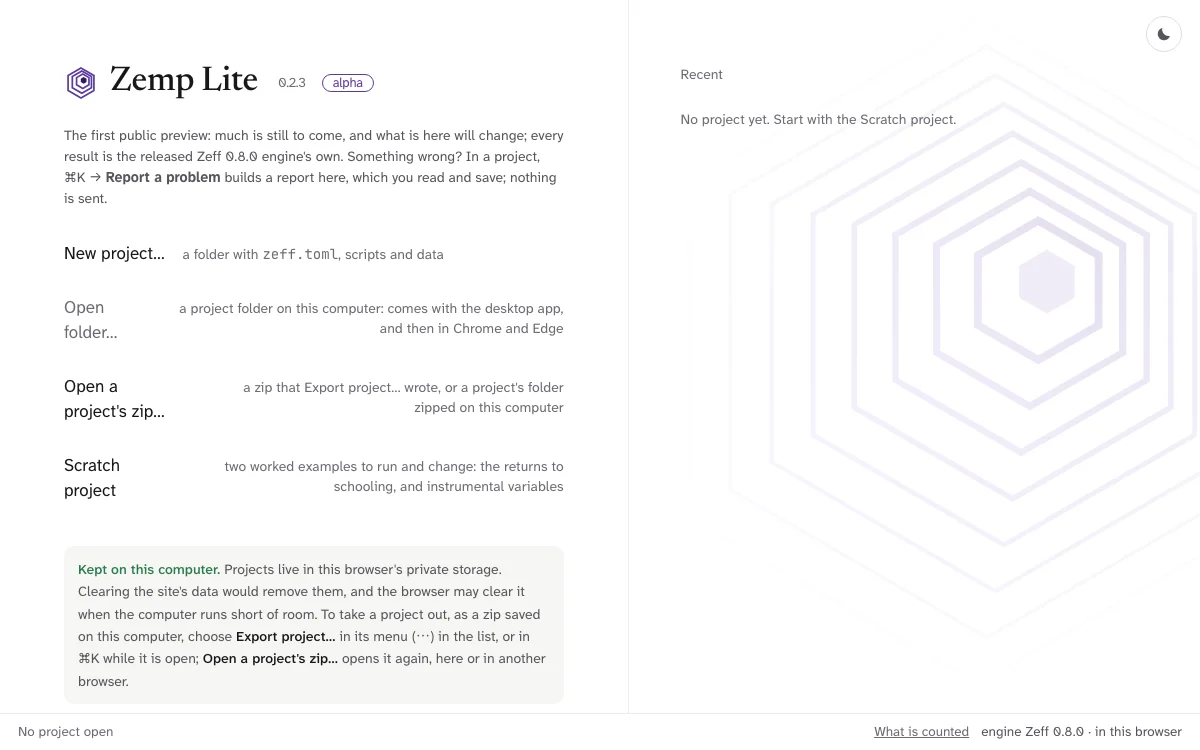
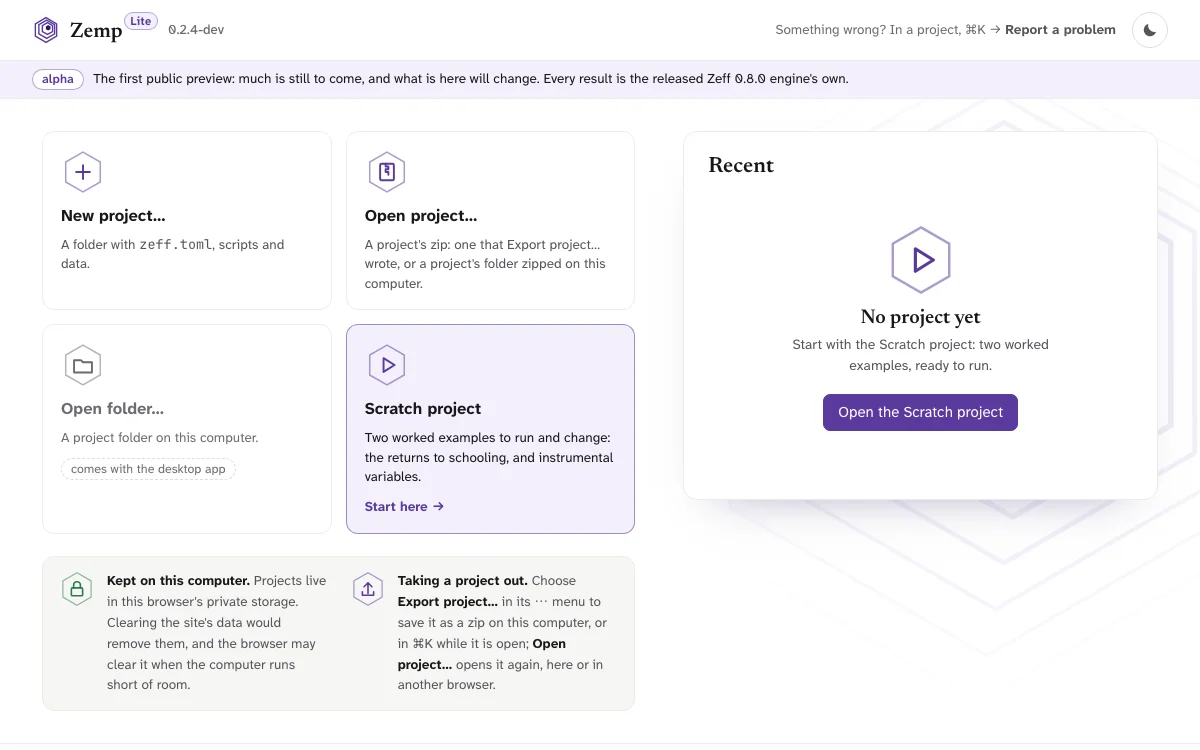
Bring the pages of Using Zemp Lite and their pictures to this release
Five places reworded where the app changed, and all thirteen pictures made again. The check of the landing page's links out of the site asks GitHub's interface for programs, since its pages answer 429 to a machine that asks often.

diff --git a/tests/host/host.spec.ts b/tests/host/host.spec.ts
@@ -3,7 +3,7 @@
 // example; and the first start, from a browser that has never seen the page to the engine
 // ready, is measured against the Zemp Specification's 2 seconds (section 14).
 import { readFileSync } from "node:fs";
-import { expect, test } from "@playwright/test";
+import { expect, test, type Page } from "@playwright/test";
 import { readZip } from "../../src/project/zip";
 
 const READY = "engine Zeff 0.8.0 ready";
@@ -46,6 +46,38 @@ test("the root is the front page, which opens the app; and an address kept from 
   await expect(page).toHaveURL(/\/app\/#?$/);
 });
 
+const SOURCE = "https://github.com/zoostat/zemp-lite";
+
+/**
+ * Whether an address the landing page links to out of the site is there. Every such link is
+ * to the repository: its front page, a file of its main branch, or its list of releases.
+ * GitHub's pages answer 429 to a machine that asks often, which says nothing of the page; so
+ * the question is put to GitHub's interface for programs, with this run's token where there
+ * is one (after a deployment) and without where there is none (from a desk).
+ */
+async function exists(page: Page, address: string): Promise<boolean> {
+  if (!address.startsWith(SOURCE)) return false;
+  const rest = address.slice(SOURCE.length);
+  const file = /^\/blob\/main\/(.+)$/.exec(rest);
+  const asked =
+    rest === ""
+      ? ""
+      : rest === "/releases"
+        ? "/releases?per_page=1"
+        : file !== null
+          ? `/contents/${file[1]}?ref=main`
+          : null;
+  if (asked === null) return false;
+  const token = process.env["GITHUB_TOKEN"];
+  const answer = await page.request.get(`https://api.github.com/repos/zoostat/zemp-lite${asked}`, {
+    headers: {
+      accept: "application/vnd.github+json",
+      ...(token === undefined || token === "" ? {} : { authorization: `Bearer ${token}` }),
+    },
+  });
+  return answer.status() === 200;
+}
+
 test("the root is the landing page, with the engine's own counts; its links out of the site answer, and a link into Help opens its page", async ({
   page,
 }) => {
@@ -62,8 +94,7 @@ test("the root is the landing page, with the engine's own counts; its links out 
     .evaluateAll((all) => [...new Set(all.map((one) => one.getAttribute("href") as string))]);
   expect(outside.length).toBeGreaterThan(2);
   for (const address of outside) {
-    const answer = await page.request.get(address);
-    expect(answer.status(), address).toBe(200);
+    expect(await exists(page, address), address).toBe(true);
   }
   await page.getByRole("link", { name: "Finding help", exact: true }).click();
   const open = page.getByRole("button", { name: "Open Zemp Lite" });

diff --git a/tests/browser/help-using.spec.ts b/tests/browser/help-using.spec.ts
@@ -143,6 +143,9 @@ test("links go from one page to another and to the engine's pages, each into the
     "↑",
     "↵",
     "Esc",
+    // From 0.2.4 the page says what Return does with no match marked, and names the key twice.
+    "↵",
+    "↵",
     "F1",
     // The section on a name with two functions names the key once more.
     "F1",

diff --git a/docs/decisions.md b/docs/decisions.md
@@ -2360,3 +2360,31 @@ A match is entered once, by the best rule that finds it, with why it matched whe
 **Tested.** Unit: every source of a screen read for the fonts it names, in style sheets and in the editor's theme, more than forty rules, none naming a font not shipped (`src/theme/fonts.node.test.ts`; with the old rule put back it fails and names it); the suggestion read from the engine's sentence, and none where it suggests nothing (`src/help/suggested.test.ts`). Browser (`tests/browser/help-search.spec.ts`): `lm`, `ttest` and `regg`, each with Return, open `reg`, `t_test` and `reg`; `histogram` opens its chooser and `reg` its own page; a word nothing matches shows the engine's sentence; on the page of a name the engine has not, the suggested name is a button with its title, the name not found is none, and the button, by the mouse and by the keyboard, opens the suggested name's page.
 
 **Reason.** Faults found after 0.2.3 (`docs/progress.md`, 24 November 2026), and the owner's answer.
+
+## 24 November 2026: The pages of Using Zemp Lite brought to this release (release 0.2.4, step 14)
+
+**The standing rule** (#211, item 12): at every release the pages Zemp keeps itself agree with the app that release ships; every control they name is on the screen under that name, and every picture is made again from the running app.
+
+**What changed in the words**, each put to the owner to read before the release (his answer to question 4):
+
+1. **Finding help**, under _Search_, one sentence added: "With no match marked, ↵ opens the page of what you typed where that is a name of Zeff's, and otherwise the first match of the list: `lm` and ↵ opens `reg`." (Step 13.)
+2. **Finding help**, under _Browse_: "a panel for each kind of page" is "a card for each kind of page" (step 12); "The **Topics** pane at the left lists the packages and the errors and warnings; beside a page it lists the pages around it" is "The **Topics** pane at the left has a section for each of the three; press a section's name to unfold it. Beside a page the pane lists the pages around it" (step 11: the sections are closed when Help is first opened); and "**On this page**, at the right, lists the sections of the page you are reading" is "At the right of a page its sections are listed, under the words On this page; press one to go to it" (step 10).
+3. **Finding help**, under _From the script_, one sentence added before the one on F1: "Rest the pointer on a function's name in the script, and its usage is shown: the function's name with its arguments." (Step 9.)
+4. **Projects, scripts and files** and **Exporting and opening a project**: **Open a project's zip…** is **Open project…** (step 7).
+5. **Where the work is kept**: the words of its picture, for a reader who cannot see it, now describe the redrawn screen of projects: its four cards, the note under them, and at the right "No project yet" with the button that opens the Scratch project.
+
+**The pictures.** All thirteen made again from the app by the pictures' script (`npm run pictures`), in the light theme; nine of the files changed: every one that shows the screen of projects, the Help place, the name, or the version. The script needed no change but the address of the app, made at step 2.
+
+**Tested.** The tests of the pages as at 0.2.3, green: every control a page names is on the screen under that name; every function, package and code a page names is the engine's; what a page says the search finds, it finds; every picture is there with its words. One test that lists the keys **Finding help** names is brought to the page's new sentence.
+
+**Reason.** The owner's standing rule, and his answer to question 4 of this release's plan.
+
+## 24 November 2026: The check of the landing page's links out of the site asks GitHub's interface, not its pages (found on GitHub after step 8)
+
+**What was seen.** Two deployments (of steps 8 and 9, commits a5c139b and cc1a83f) were reported failed, though each was deployed and every check of the site itself passed there, in both browsers. The one test that failed was step 8's own: it asked for each address the landing page links to out of the site (the repository's front page, its licence, its notices, its list of releases), and GitHub's pages answered 429, "too many requests", to GitHub's own machines, which ask often. A 429 says nothing of whether a page is there.
+
+**Choice.** The question is put to GitHub's interface for programs instead: the repository, a file of its main branch, its releases. After a deployment it is asked with that run's own token, which the deployment job now gives the checks; from a desk it is asked without one. A link that is none of the three kinds the landing page uses fails the check outright, so a link added later has to be one the check knows how to ask about.
+
+**Tested.** From this Mac at `https://lite.zeff-lang.dev`, in both browsers: the check passes, each of the five addresses answered 200 by the interface.
+
+**Reason.** A check that fails for the asker's own frequency hides the failures that matter; #220, item 1, asks that every link goes to an address that exists, which is what is now asked.

diff --git a/docs/progress.md b/docs/progress.md
@@ -66,4 +66,8 @@ Decided by the owner (#211, stage 1), planned (`docs/releases/0.2.3.md`), built 
 
 **Done, step 13 `[function]`.** The font of a list page's words is the app's own, and a test reads every rule of the app for the fonts it names; in Help's search, Return opens the first match where what was typed is not a name (`lm` opens `reg`), and a name the engine suggests is a link to its page. Green here: the whole routine in both browsers (422 unit tests, 615 browser tests).
 
-**Next.** Step 14 `[function]`: the pages of Using Zemp Lite brought to this release, and every picture made again. At step 15: a dated correction in the notes of 0.1 to 0.2.3, which call 2.9 MB the size "as it travels". **Still the owner's from before:** the reader test, on this alpha, for Zeff 0.9.0; the checks by hand; the trademarks (#37) before the address is announced; the order of the parts for #223. Also his, if he wishes: to read again the paragraphs of **Finding help** and **Commands with ⌘K** changed after his reading at 0.2.3. **Later:** Zemp 0.3 opens on "Start release 0.3" after Zeff 0.9.0 is released; its plan holds stage 1 of Paper (#172), its first step the spike of the Typst module `[engine]` (`docs/decisions.md`, 23 November 2026).
+**Done, step 14 `[function]`.** The pages of Using Zemp Lite agree with the app again: five places reworded (the search's Return, Home's cards, the Topics pane's sections, On this page, the hover; **Open project…**; the words of one picture), listed in `docs/decisions.md`; all thirteen pictures made again. Green here: the whole routine in both browsers (422 unit tests, 615 browser tests). **Found on GitHub:** two deployments reported failed though deployed and sound: GitHub's pages answered 429 to the check of the landing page's links; the check now asks GitHub's interface for programs, and passes at the address from this Mac.
+
+**For the owner, before "Release 0.2.4":** to read the changed paragraphs of **Finding help** (three places), and the renamed **Open project…** in two pages.
+
+**Next.** Step 15 `[function]`: the whole, the measures and the notes. At step 15: a dated correction in the notes of 0.1 to 0.2.3, which call 2.9 MB the size "as it travels". **Still the owner's from before:** the reader test, on this alpha, for Zeff 0.9.0; the checks by hand; the trademarks (#37) before the address is announced; the order of the parts for #223. Also his, if he wishes: to read again the paragraphs of **Finding help** and **Commands with ⌘K** changed after his reading at 0.2.3. **Later:** Zemp 0.3 opens on "Start release 0.3" after Zeff 0.9.0 is released; its plan holds stage 1 of Paper (#172), its first step the spike of the Typst module `[engine]` (`docs/decisions.md`, 23 November 2026).

diff --git a/src/using/pages/finding-help.md b/src/using/pages/finding-help.md
@@ -13,17 +13,17 @@ Type in the field at the top of Help; <kbd>/</kbd> puts the cursor there. From t
 - a name from R or Stata: `lm` and `reghdfe` both find `reg`;
 - the code of an error or a warning: `W0201`.
 
-<kbd>↓</kbd> and <kbd>↑</kbd> move through the list, <kbd>↵</kbd> opens the match marked, and <kbd>Esc</kbd> closes the list.
+<kbd>↓</kbd> and <kbd>↑</kbd> move through the list, <kbd>↵</kbd> opens the match marked, and <kbd>Esc</kbd> closes the list. With no match marked, <kbd>↵</kbd> opens the page of what you typed where that is a name of Zeff's, and otherwise the first match of the list: `lm` and <kbd>↵</kbd> opens `reg`.
 
 ![The Help place with lm typed in its search field: under the field a list of two functions, reg and anova, each saying it matched R's lm().](search-in-help)
 
 ## Browse
 
-**Home** is where Help starts: what Zeff and Zemp Lite are, and a panel for each kind of page, the packages, the errors and warnings, and these pages on the app. A package's page lists its functions, each with its one line. The **Topics** pane at the left lists the packages and the errors and warnings; beside a page it lists the pages around it. At the right of a page its sections are listed, under the words On this page; press one to go to it.
+**Home** is where Help starts: what Zeff and Zemp Lite are, and a card for each kind of page, the packages, the errors and warnings, and these pages on the app. A package's page lists its functions, each with its one line. The **Topics** pane at the left has a section for each of the three; press a section's name to unfold it. Beside a page the pane lists the pages around it. At the right of a page its sections are listed, under the words On this page; press one to go to it.
 
 ## From the script
 
-Put the cursor on a function's name in the script and press <kbd>F1</kbd>: Help opens at its page. When a run gives a warning or an error, press **Explain** beside it for the page of its code.
+Rest the pointer on a function's name in the script, and its usage is shown: the function's name with its arguments. Put the cursor on the name and press <kbd>F1</kbd>: Help opens at its page. When a run gives a warning or an error, press **Explain** beside it for the page of its code.
 
 ## A name with two functions
 

diff --git a/docs/releases/0.2.4.md b/docs/releases/0.2.4.md
@@ -68,7 +68,7 @@ Each has a recommendation; "go, as recommended" takes them all.
 
 ### F. The words and the pictures
 
-- [ ] **14. [function] The pages of Using Zemp Lite brought to this release** (#211, item 12; finding 8; question 4). Every sentence that names a control this release renames, moves or removes is rewritten; every picture is made again from the app as it now is; the test that holds a page's controls to the screen passes. The changed paragraphs are listed for the owner to read. Tests: the tests of the pages as at 0.2.3; the pictures' script. Done when: the routine is green and the owner has read the changes, or has said to go on.
+- [x] **14. [function] The pages of Using Zemp Lite brought to this release** (#211, item 12; finding 8; question 4). Every sentence that names a control this release renames, moves or removes is rewritten; every picture is made again from the app as it now is; the test that holds a page's controls to the screen passes. The changed paragraphs are listed for the owner to read. Tests: the tests of the pages as at 0.2.3; the pictures' script. Done when: the routine is green and the owner has read the changes, or has said to go on. _Built and green on 24 November 2026; the changed paragraphs are listed in `docs/decisions.md` and put to the owner, whose reading is owed before "Release 0.2.4"._
 
 ### G. Closing
 

diff --git a/src/using/pages/where-the-work-is-kept.md b/src/using/pages/where-the-work-is-kept.md
@@ -8,7 +8,7 @@ A project lives in the private storage this browser gives the app. Nothing of it
 
 What you type is saved as you type it. The line at the top of a project says `saved` beside the file's name when it is.
 
-![The screen of projects: at the left the release and what the app is, and at the right the Scratch project, the ways to begin a project, and the sentence that says where projects are kept.](the-screen-of-projects)
+![The screen of projects: four cards, New project…, Open project…, Open folder… and Scratch project; under them the note that says where projects are kept and how one is taken out; and at the right, where recent projects are listed, the words No project yet and a button that opens the Scratch project.](the-screen-of-projects)
 
 ## What can remove it
 
